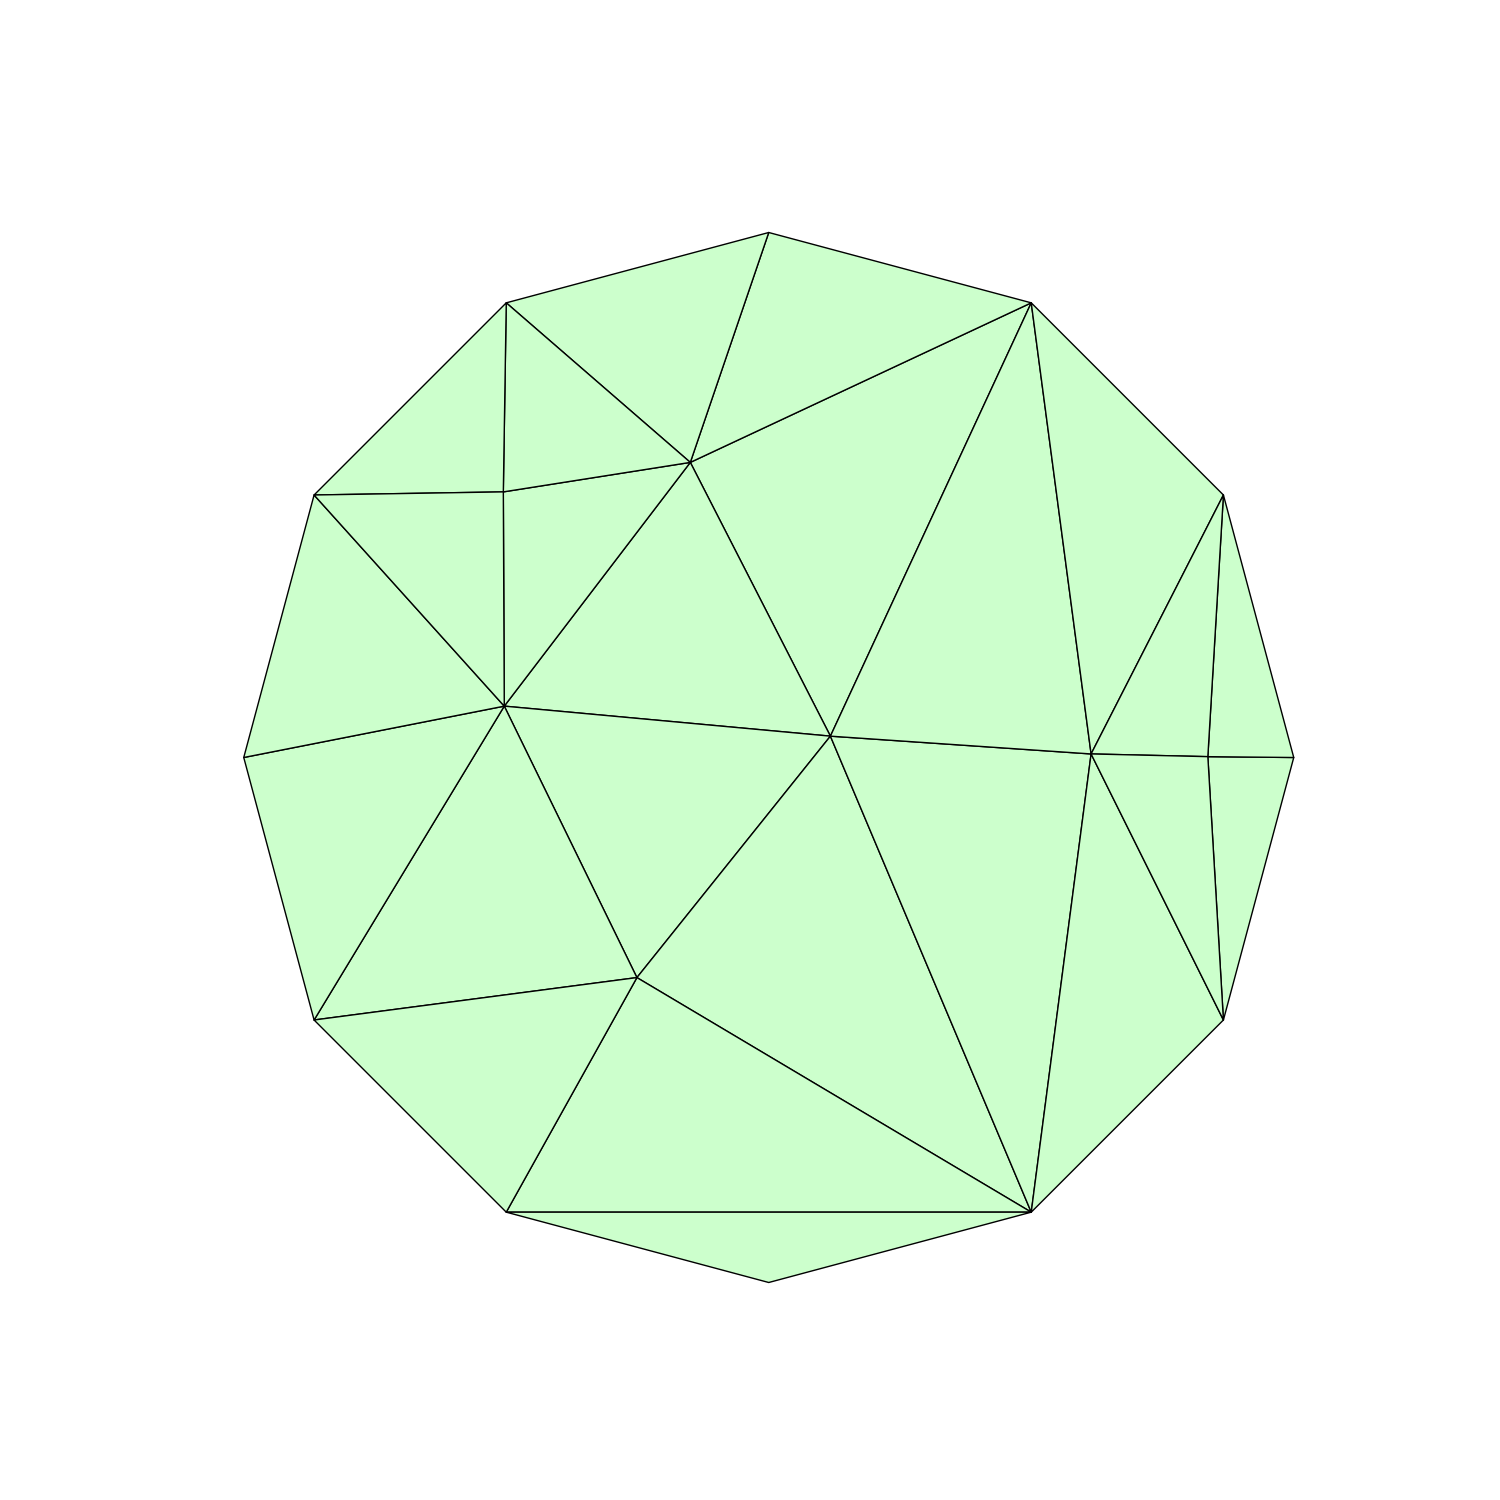
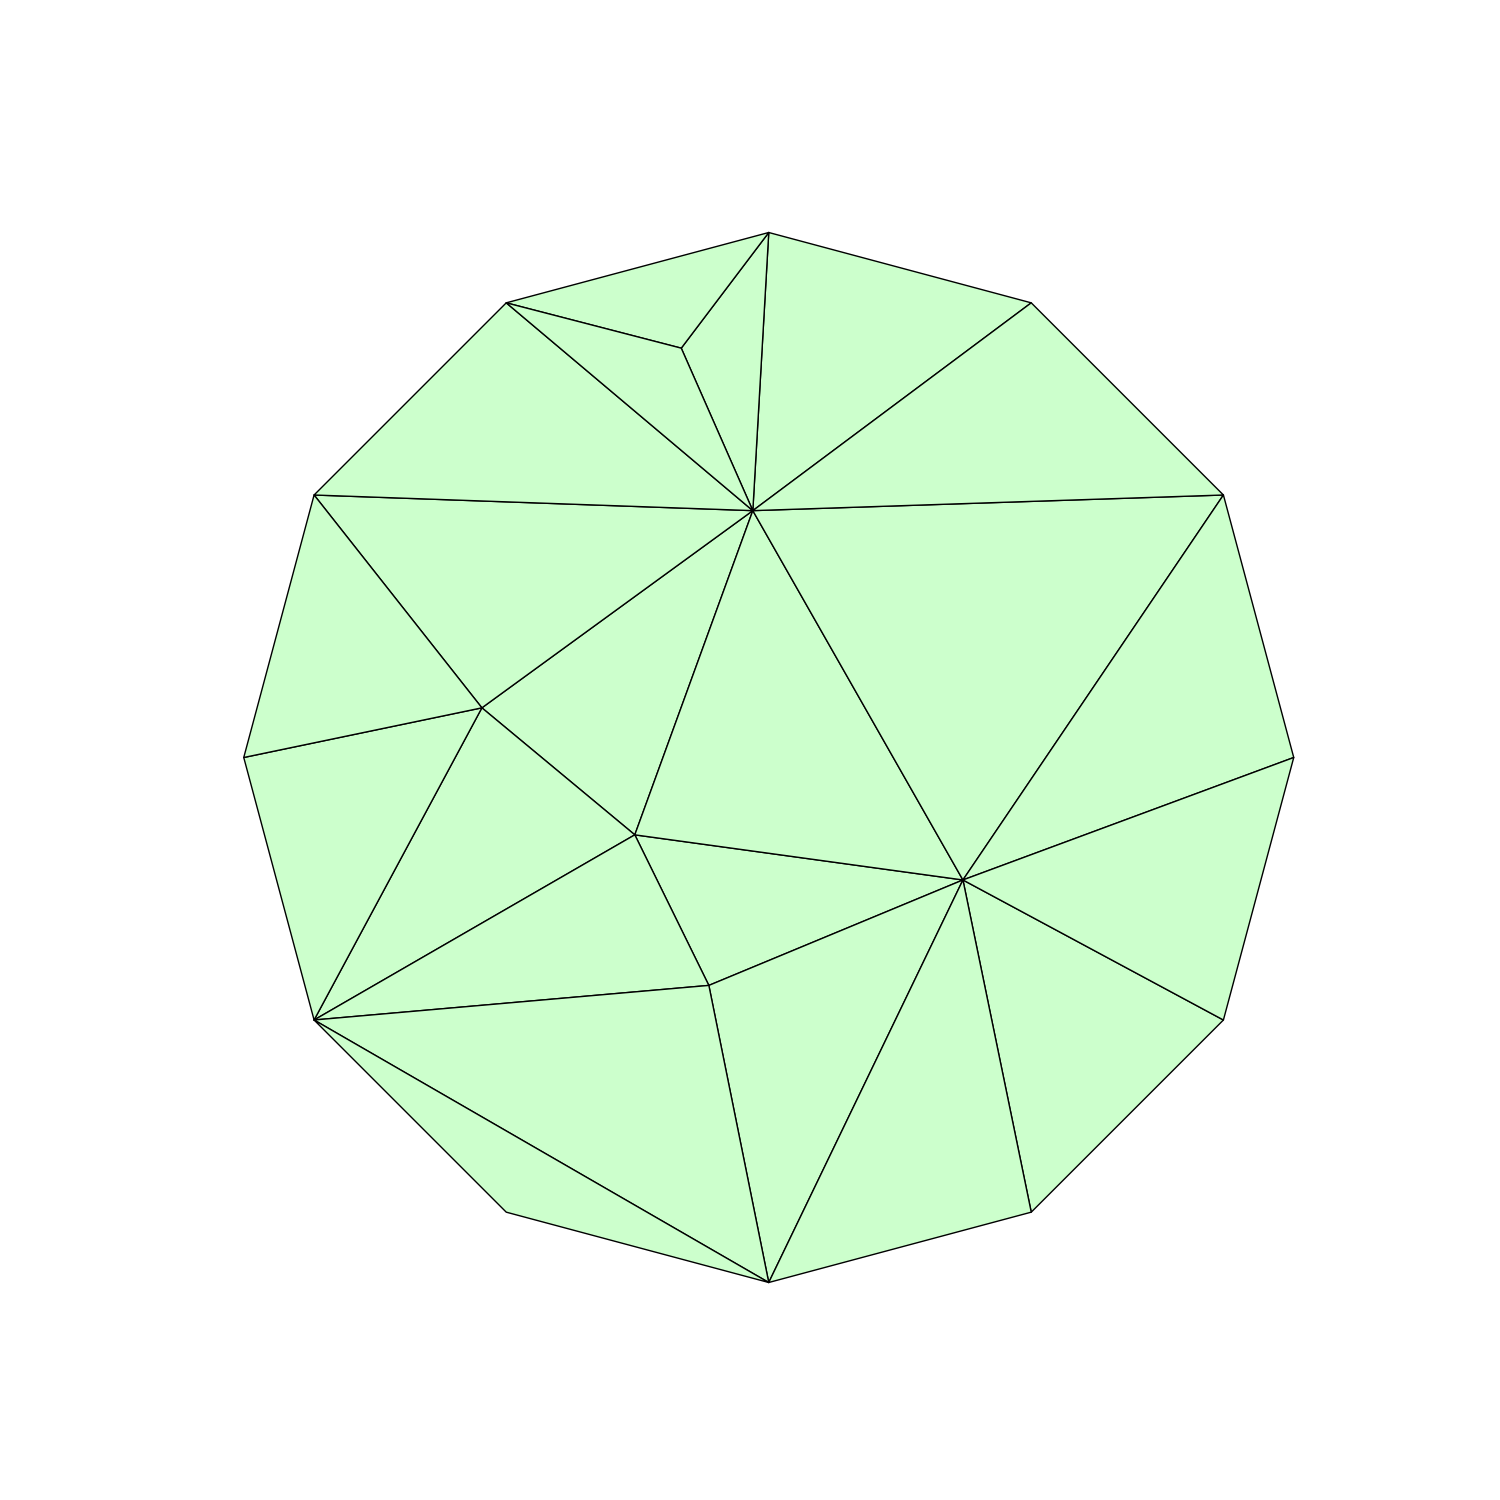
working on game env docs

diff --git a/README.md b/README.md
@@ -196,5 +196,17 @@ Most people would prefer the mesh on the left to the mesh on the right.
 
 The connectivity of a mesh has an effect on __mesh quality__. For triangular meshes with uniformly sized elements, it is desirable to have a degree (or valence) of 6 for vertices in the interior of the mesh. The degree of vertices on the boundary depends on the angle enclosed by the two incident edges. (Typically, you would like to divide the enclosed angle sufficient times to bring the angle close to 60 degrees.)
 
-The objective function of our game is to minimize the number of vertices with irregular valence. `MeshPlotter` helps with visualizing irregular vertices.
+The objective function of our game is to minimize the number of vertices with irregular valence. `MeshPlotter` helps with visualizing irregular vertices. Here's an example,
 
+```julia
+mesh = TM.circlemesh(0)
+d0 = TM.active_degrees(mesh)
+env = TM.GameEnv(mesh, d0, 10)
+TM.step_flip!(env, 1, 2, -4)
+TM.step_split!(env, 3, 1, -4)
+TM.reindex!(env)
+MP.plot_mesh(TM.active_vertex_coordinates(env.mesh), TM.active_triangle_connectivity(env.mesh),
+vertex_score = TM.active_vertex_score(env))
+```
+
+<img src="examples/figures/vertex-score-example.png" alt="drawing" width="600"/>
